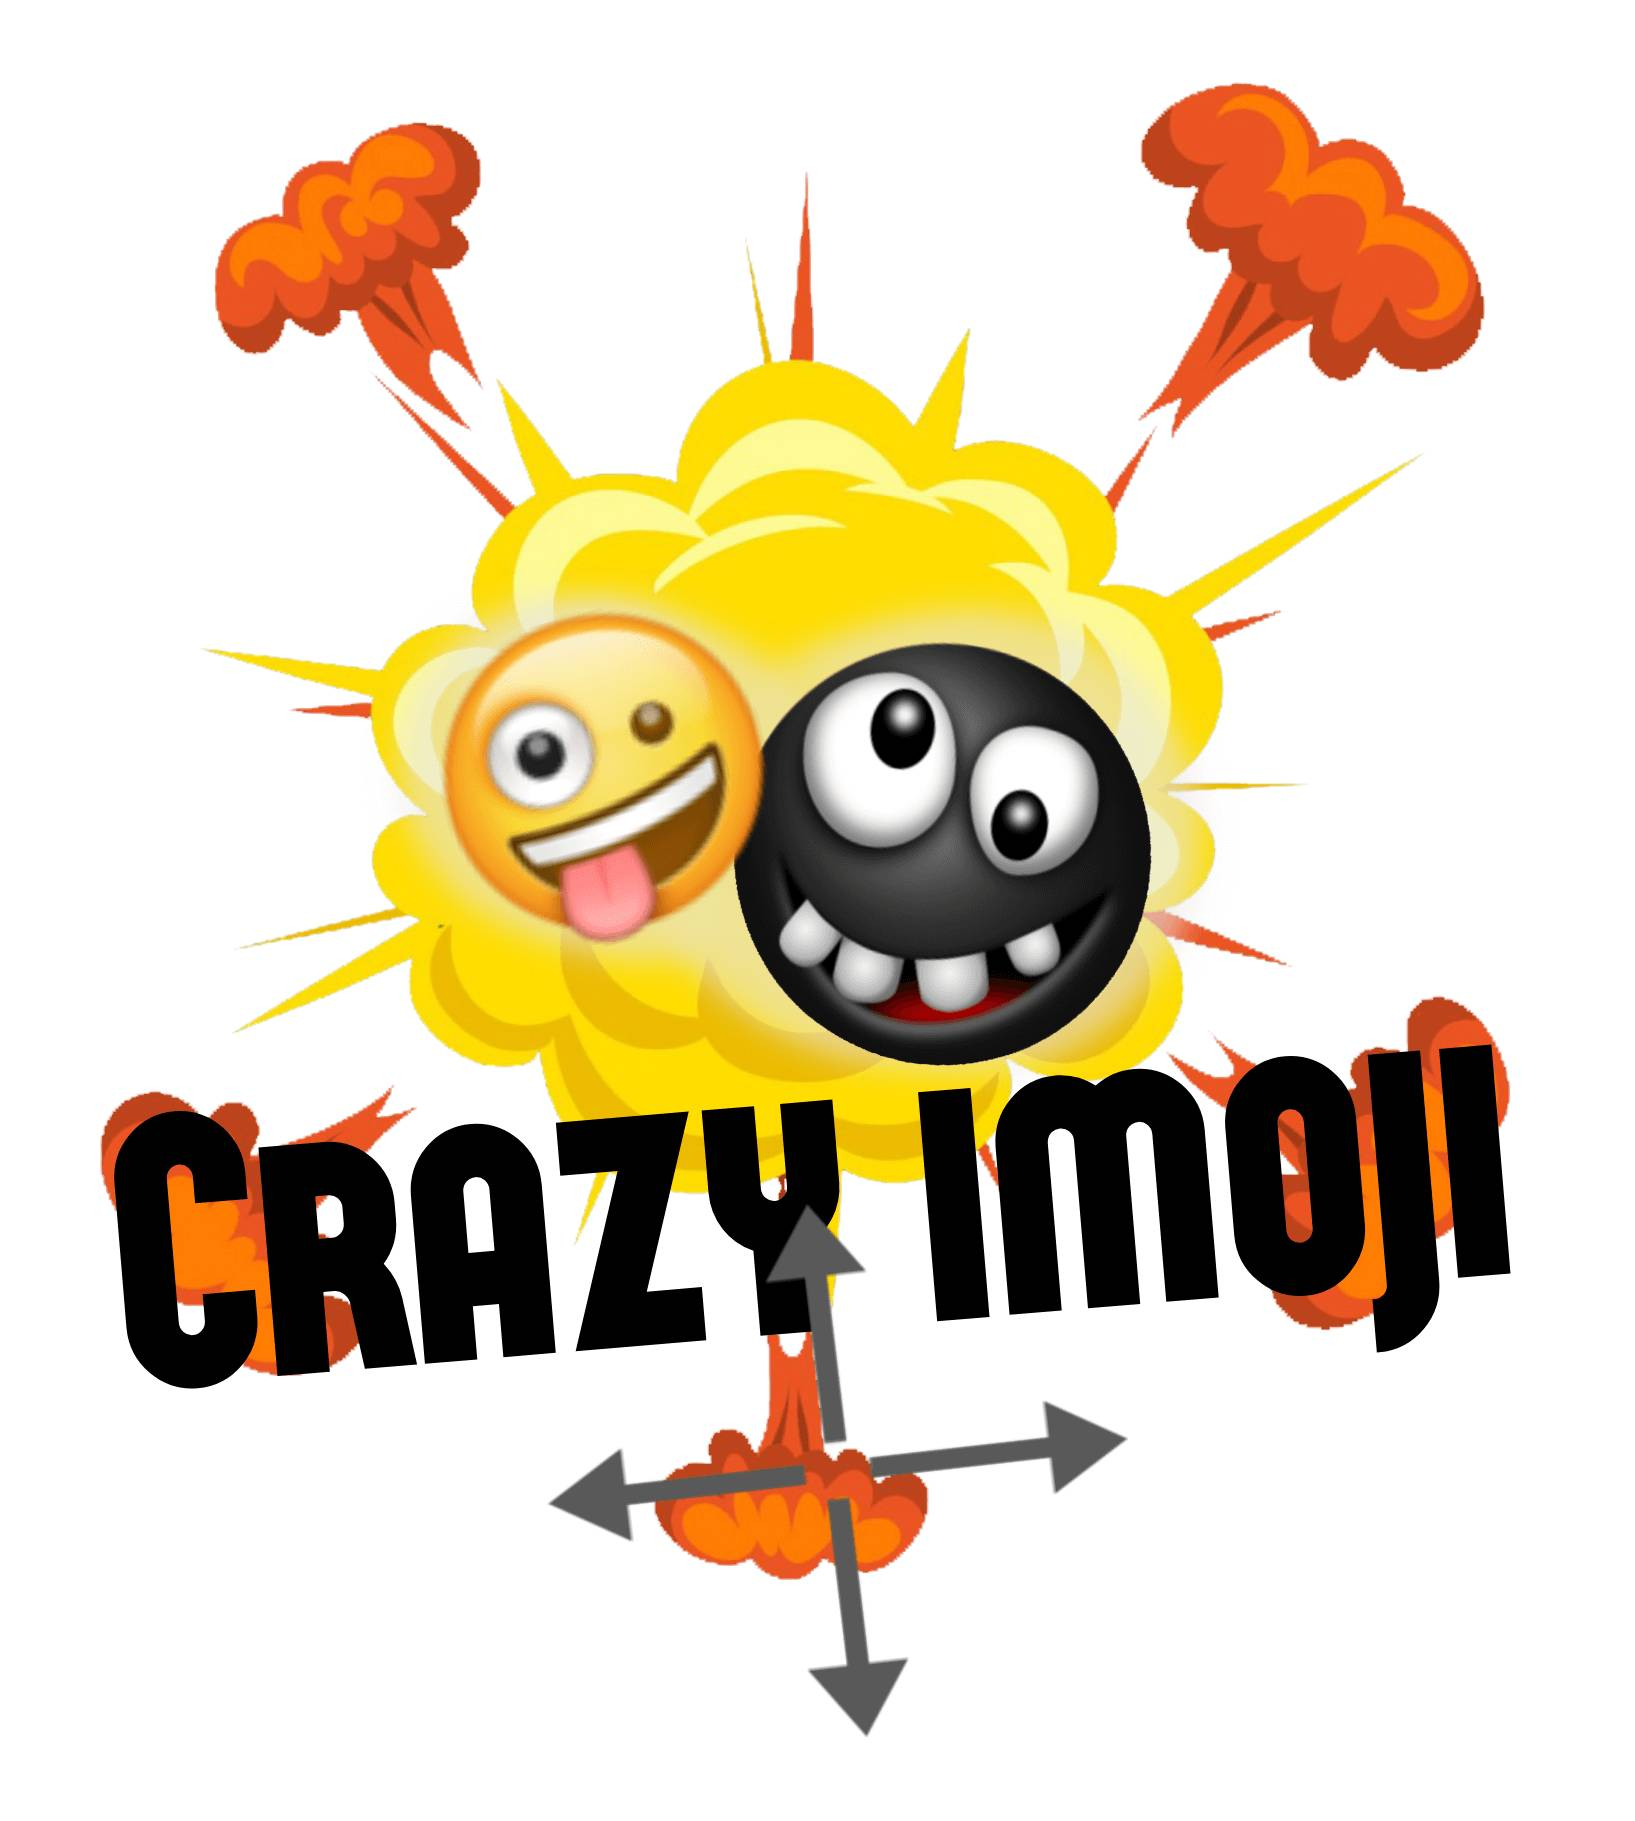
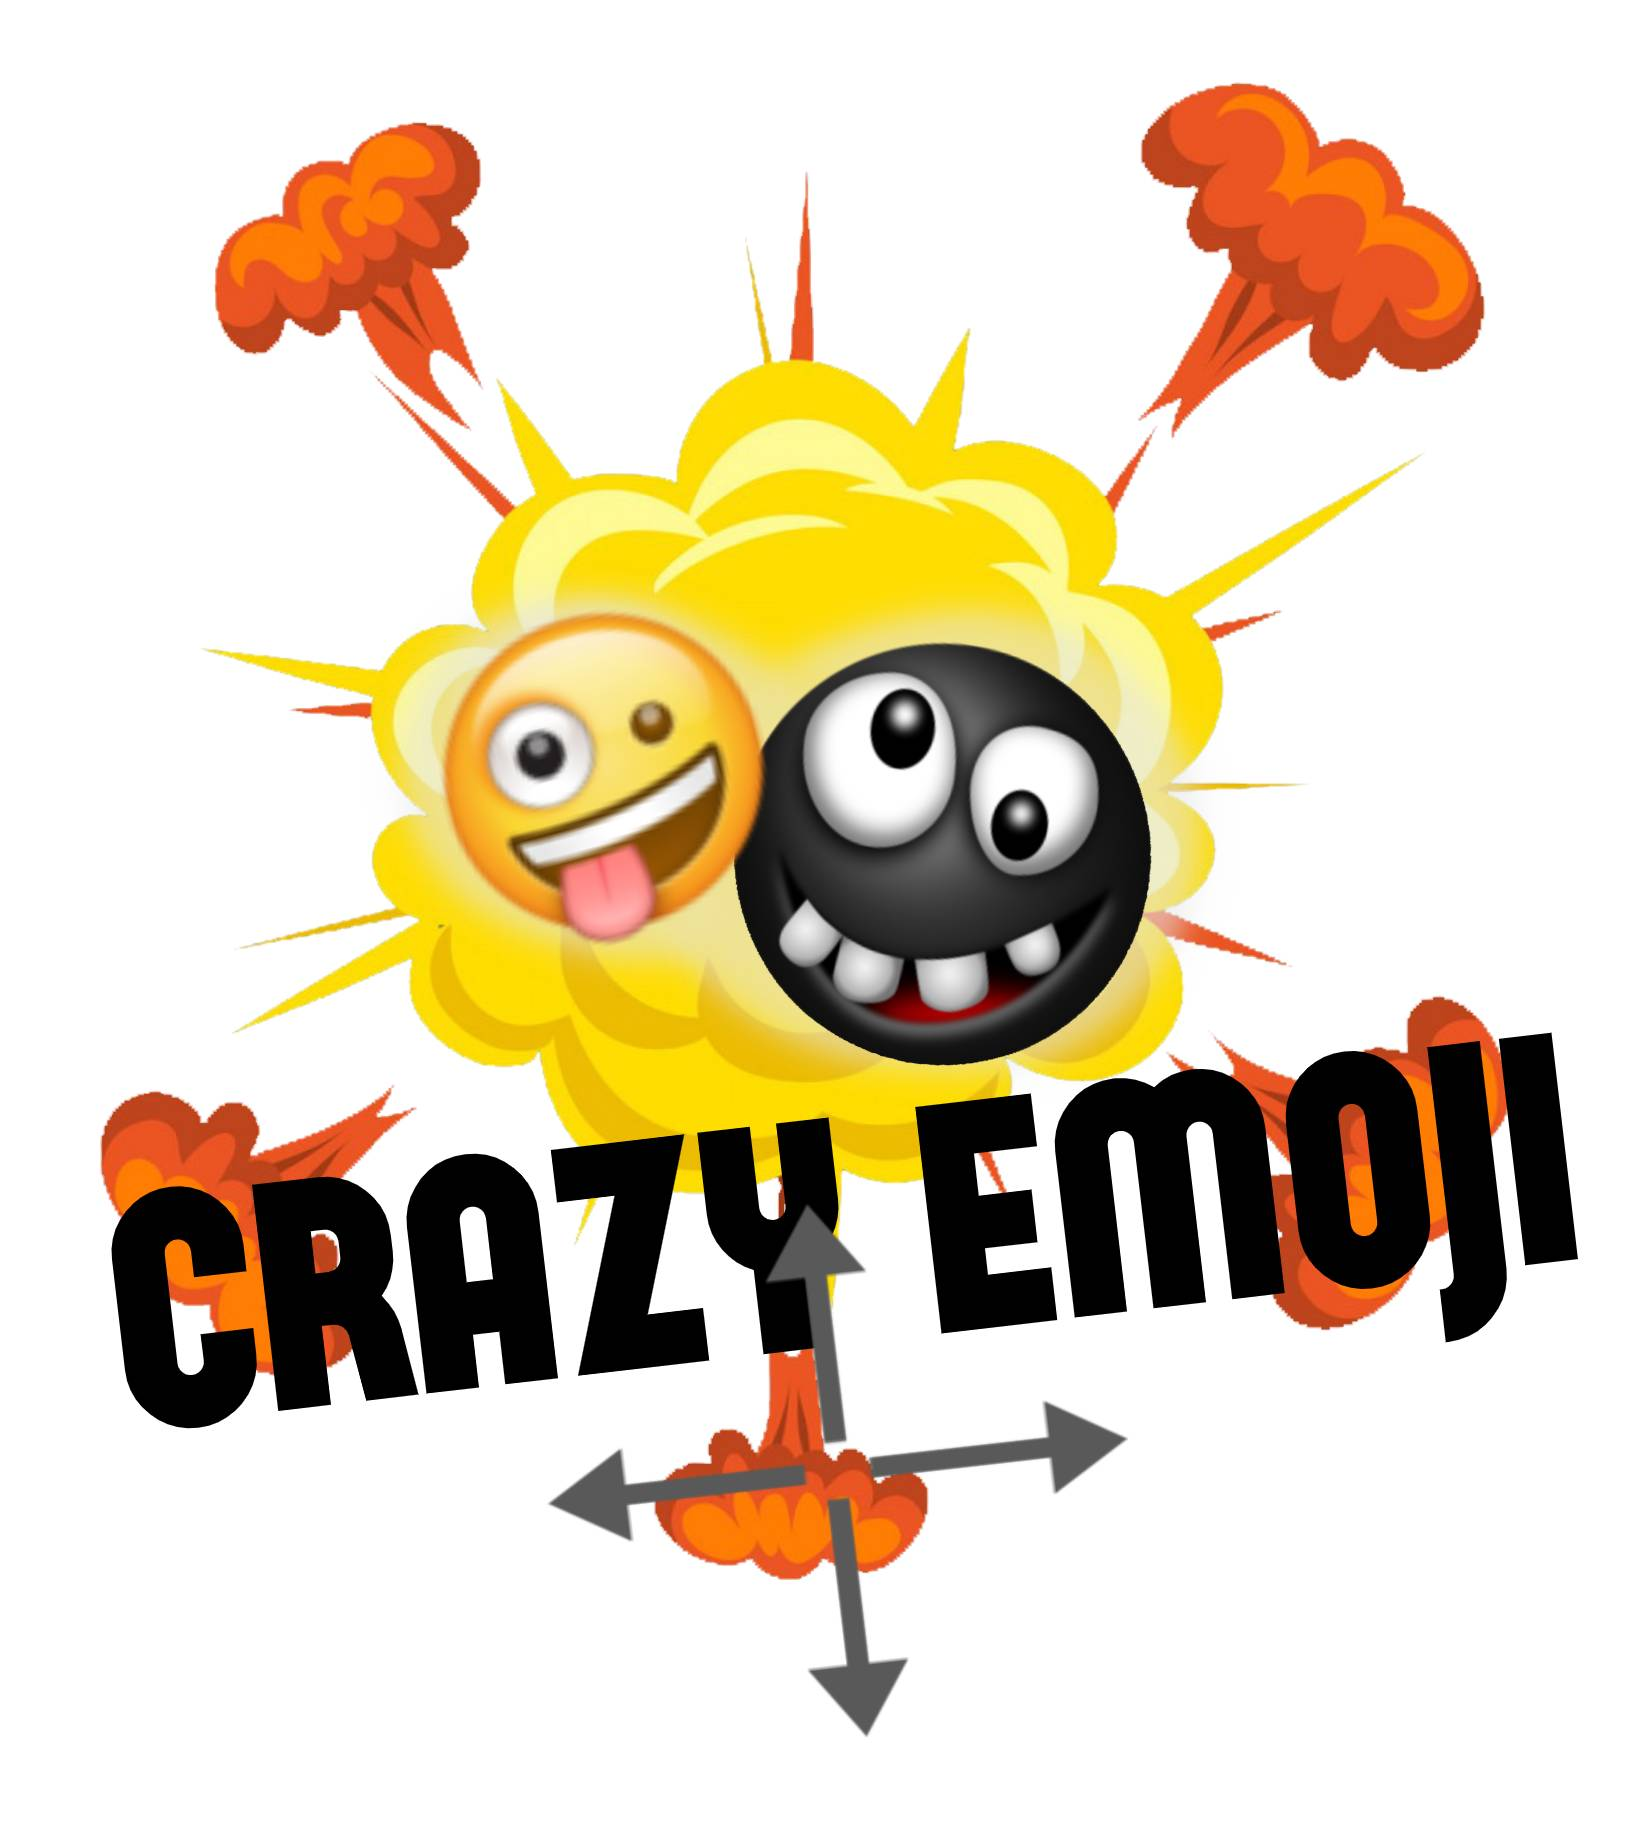
add

Changed region(s): [[0.0624, 0.5843, 0.5303, 0.7996], [0.5615, 0.5535, 0.967, 0.7381], [0.4679, 0.7073, 0.4991, 0.7688]]

diff --git a/client/index.html b/client/index.html
@@ -6,7 +6,7 @@
     <meta name="viewport" content="width=device-width, initial-scale=1.0">
     <meta http-equiv="X-UA-Compatible" content="ie=edge">
     <meta name="viewport" content="width=device-width, initial-scale=1.0, maximum-scale=1.0, user-scalable=no" />
-    <title>Crazy imoji | משחק אימוג'ים </title>
+    <title>Crazy emoji | משחק אימוג'ים </title>
     <link rel="icon" href="img/smill.png">
     <link rel="stylesheet" href="https://stackpath.bootstrapcdn.com/bootstrap/4.3.1/css/bootstrap.min.css"
         integrity="sha384-ggOyR0iXCbMQv3Xipma34MD+dH/1fQ784/j6cY/iJTQUOhcWr7x9JvoRxT2MZw1T" crossorigin="anonymous">
